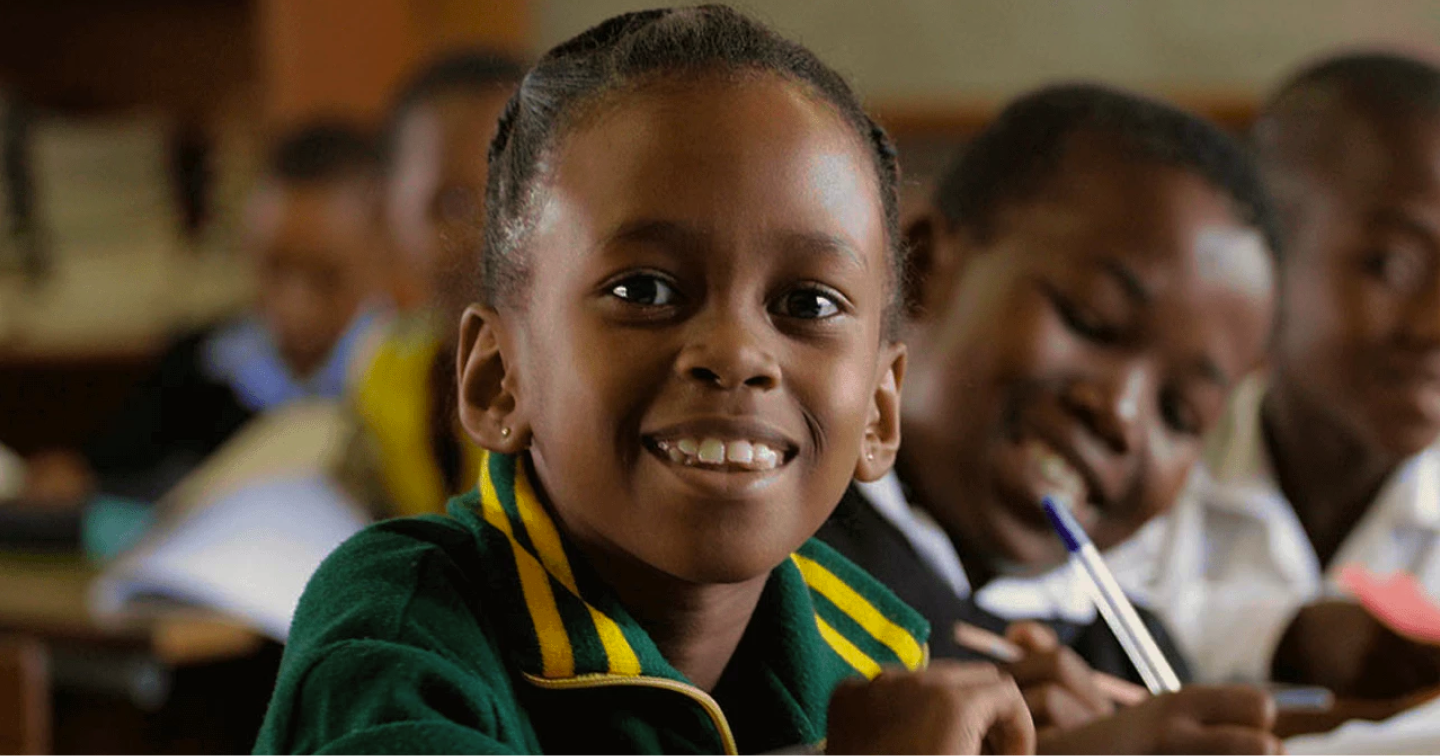
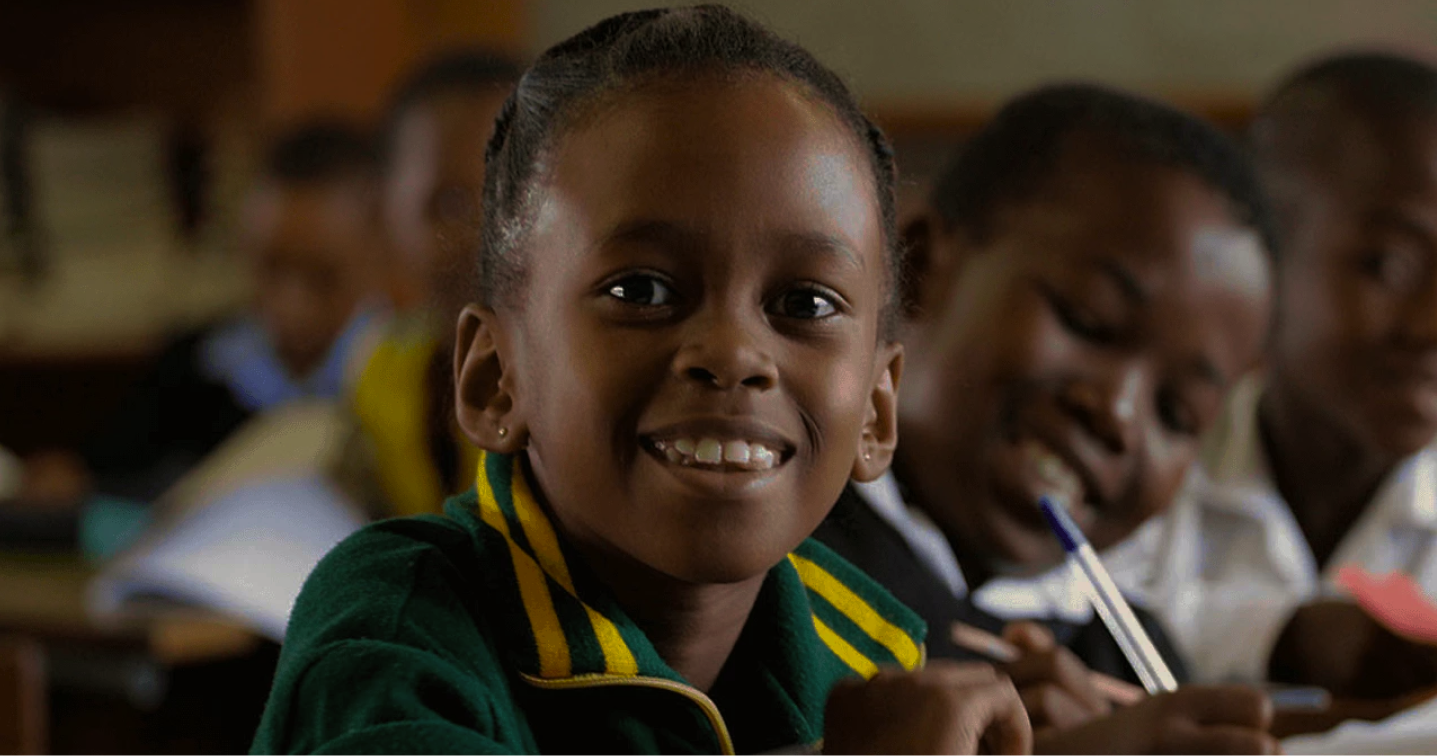
fixed about us hero img

diff --git a/src/components/aboutpage.jsx b/src/components/aboutpage.jsx
@@ -5,6 +5,7 @@ import treasurerImg from '../assets/team/sandra.png';
 import proImg from '../assets/team/adepeju.png';
 import classes from '../styles/about.module.css';
 import CEOImg from '../assets/ceo.jpg';
+import childenImg from '../assets/home-img/volunteer-img.png';
 
 //data & information displaying on screen
 const aboutPageData = {
@@ -45,7 +46,8 @@ const aboutPageData = {
         },
         mission : {
             title: 'our mission',
-            text: "Our mission at R.A.G.E is to provide free, quality education to every child in Nigeria, ensuring equal opportunities for all. Through innovative programs, community engagement, and advocacy efforts, we aim to break down barriers to education, empower marginalized communities, and foster a culture of lifelong learning. By investing in the potential of our youth, we strive to create a brighter future for Nigeria, where every child has the knowledge, skills, and opportunities to thrive and contribute positively to society."
+            text: "Our mission at R.A.G.E is to provide free, quality education to every child in Nigeria, ensuring equal opportunities for all. Through innovative programs, community engagement, and advocacy efforts, we aim to break down barriers to education, empower marginalized communities, and foster a culture of lifelong learning. By investing in the potential of our youth, we strive to create a brighter future for Nigeria, where every child has the knowledge, skills, and opportunities to thrive and contribute positively to society.",
+            img: childenImg
         },
         vision : {
             title: 'our vision',
@@ -61,11 +63,17 @@ const aboutPageData = {
 
 //hero section
 const HeroSection = ({title})=>{
+    const titles = title.split(':');
+
     return(
         <section className={`${classes.heroSection}`}>
             <h1>
-                {title}
+                {titles[0]}
             </h1>
+            <h4>
+                {titles[1]}
+            </h4>
+            
         </section>
     )
 }
@@ -110,20 +118,25 @@ const CEOSection = ({message, name, img}) =>{
                  message from our CEO
                 </h5>
                 <p className="section-body">{message}</p>
-                <p className={`${classes.ceoName}`}>{name}</p>
+                <h6 className={`${classes.ceoName}`}>{name}</h6>
             </div>
         </section>
         
     )
 }
 
-const Article = ({title, text}) =>{
+const Article = ({title, text, img}) =>{
     return(
-        <section>
+        <section className={`${classes.articleSection}`}>
             <h4 className="title">
                 {title}
             </h4>
-            <p className='section-body'>{text}</p>
+            <p className='section-body' >{text}</p>
+            {
+                img && (
+                    <img src={img} alt={`${title}`} />
+                )
+            }
         </section>
     )
 }

diff --git a/src/styles/about.module.css b/src/styles/about.module.css
@@ -7,13 +7,20 @@
     background-repeat: no-repeat; 
     background-size:cover;
     background-attachment: fixed;
+    background-blend-mode: darken;
     width: 100vw;
-    height: 80vh !important;
+    height: 100vh !important;
     min-height: fit-content;
     text-align: center;
+    gap: 2.4vh;
+    
 }
 .heroSection h1 {
     color: var(--secondary-color);
+    font-weight: 500;
+}
+.heroSection h4{
+    color: var(--text-light-h);
     font-weight: 500;
 }
 
@@ -96,12 +103,22 @@
 }
 
 .ceoMsgWrap > .ceoName{
-    font-weight: 500;
+    font-weight: 600;
     text-transform: capitalize;
     color:var(--text-h);
 }
 
-/* ====media quaries ===== */
+/* ======= articles section styling ======*/
+.articleSection > img{
+    width: 100%;
+    height: 50vh;
+    object-fit: cover;
+    object-position: center 20%;
+    -o-object-fit: cover;
+    -o-object-position:center 20%;
+}
+
+/* ==== media quaries ===== */
 
 @media screen and (max-width: 980px) {
     .teamWrapper{
